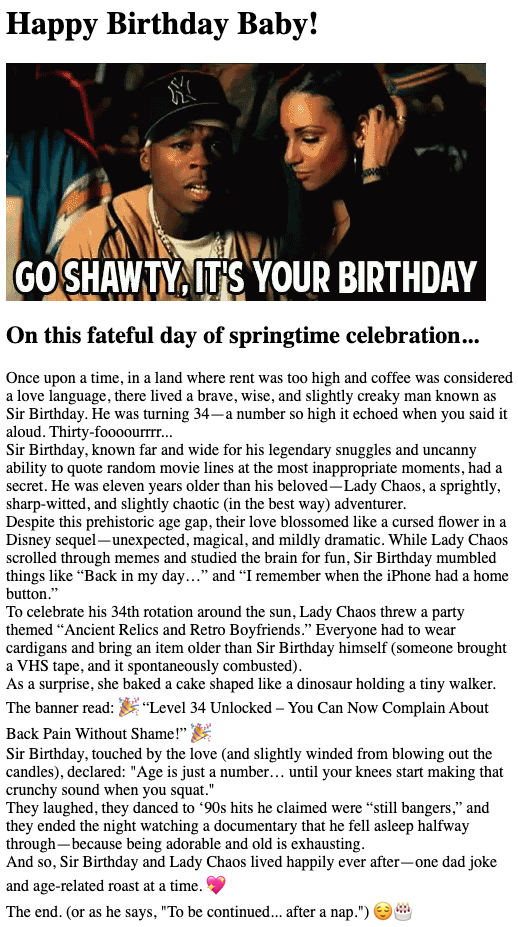
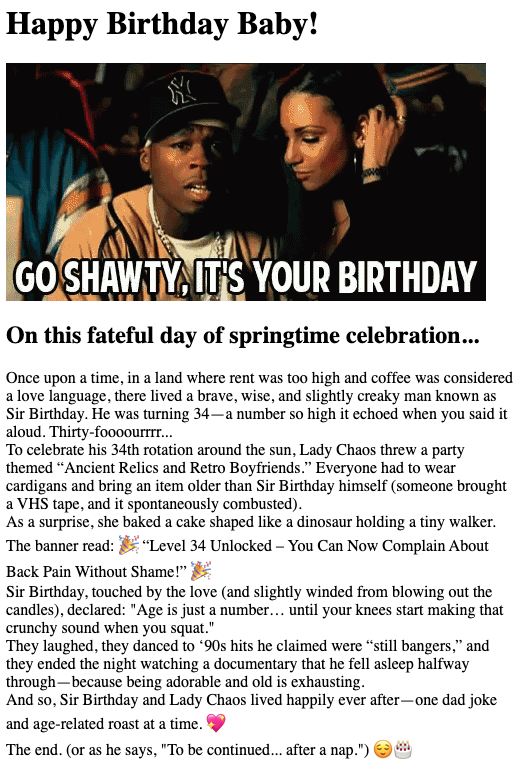
Add files via upload

diff --git a/public/Birthday_card.html b/public/Birthday_card.html
@@ -7,10 +7,6 @@
 <p>
     Once upon a time, in a land where rent was too high and coffee was considered a love language, there lived a brave, wise, and slightly creaky man known as Sir Birthday. He was turning 34—a number so high it echoed when you said it aloud. Thirty-foooourrrr...
 <br>
-    Sir Birthday, known far and wide for his legendary snuggles and uncanny ability to quote random movie lines at the most inappropriate moments, had a secret. He was eleven years older than his beloved—Lady Chaos, a sprightly, sharp-witted, and slightly chaotic (in the best way) adventurer.
-<br>
-    Despite this prehistoric age gap, their love blossomed like a cursed flower in a Disney sequel—unexpected, magical, and mildly dramatic. While Lady Chaos scrolled through memes and studied the brain for fun, Sir Birthday mumbled things like “Back in my day…” and “I remember when the iPhone had a home button.”
-<br>
     To celebrate his 34th rotation around the sun, Lady Chaos threw a party themed “Ancient Relics and Retro Boyfriends.” Everyone had to wear cardigans and bring an item older than Sir Birthday himself (someone brought a VHS tape, and it spontaneously combusted).
 <br>
     As a surprise, she baked a cake shaped like a dinosaur holding a tiny walker. The banner read:
